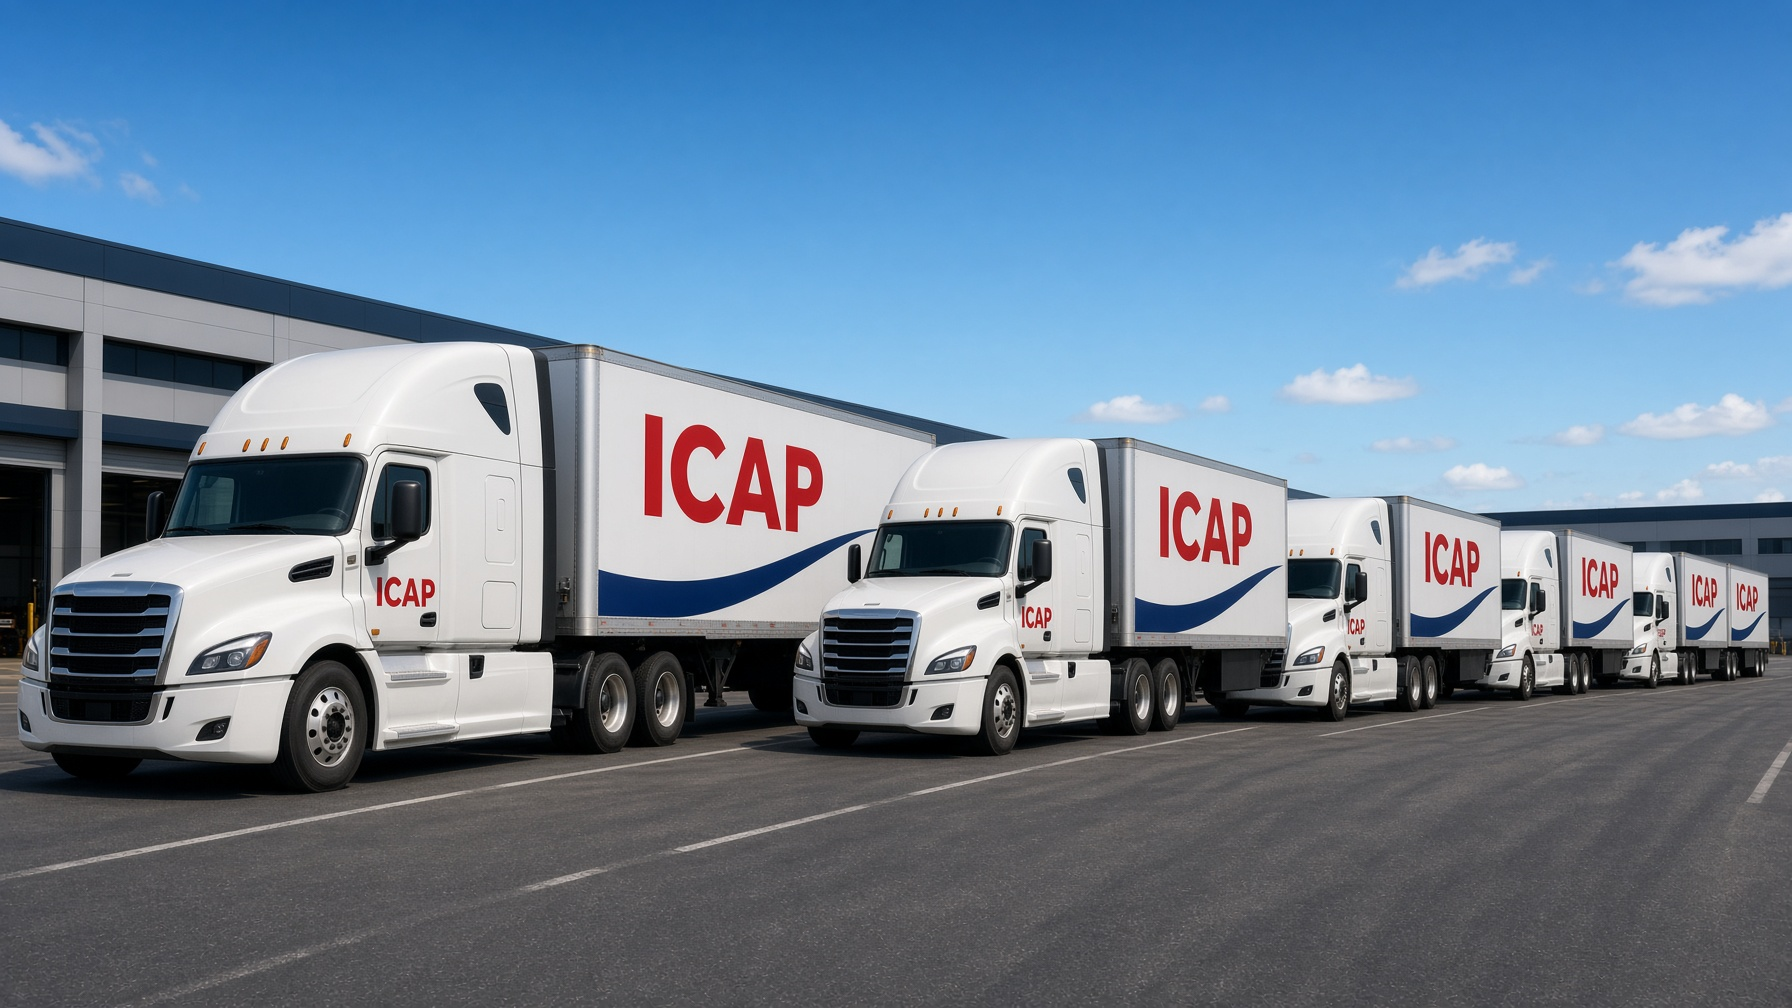
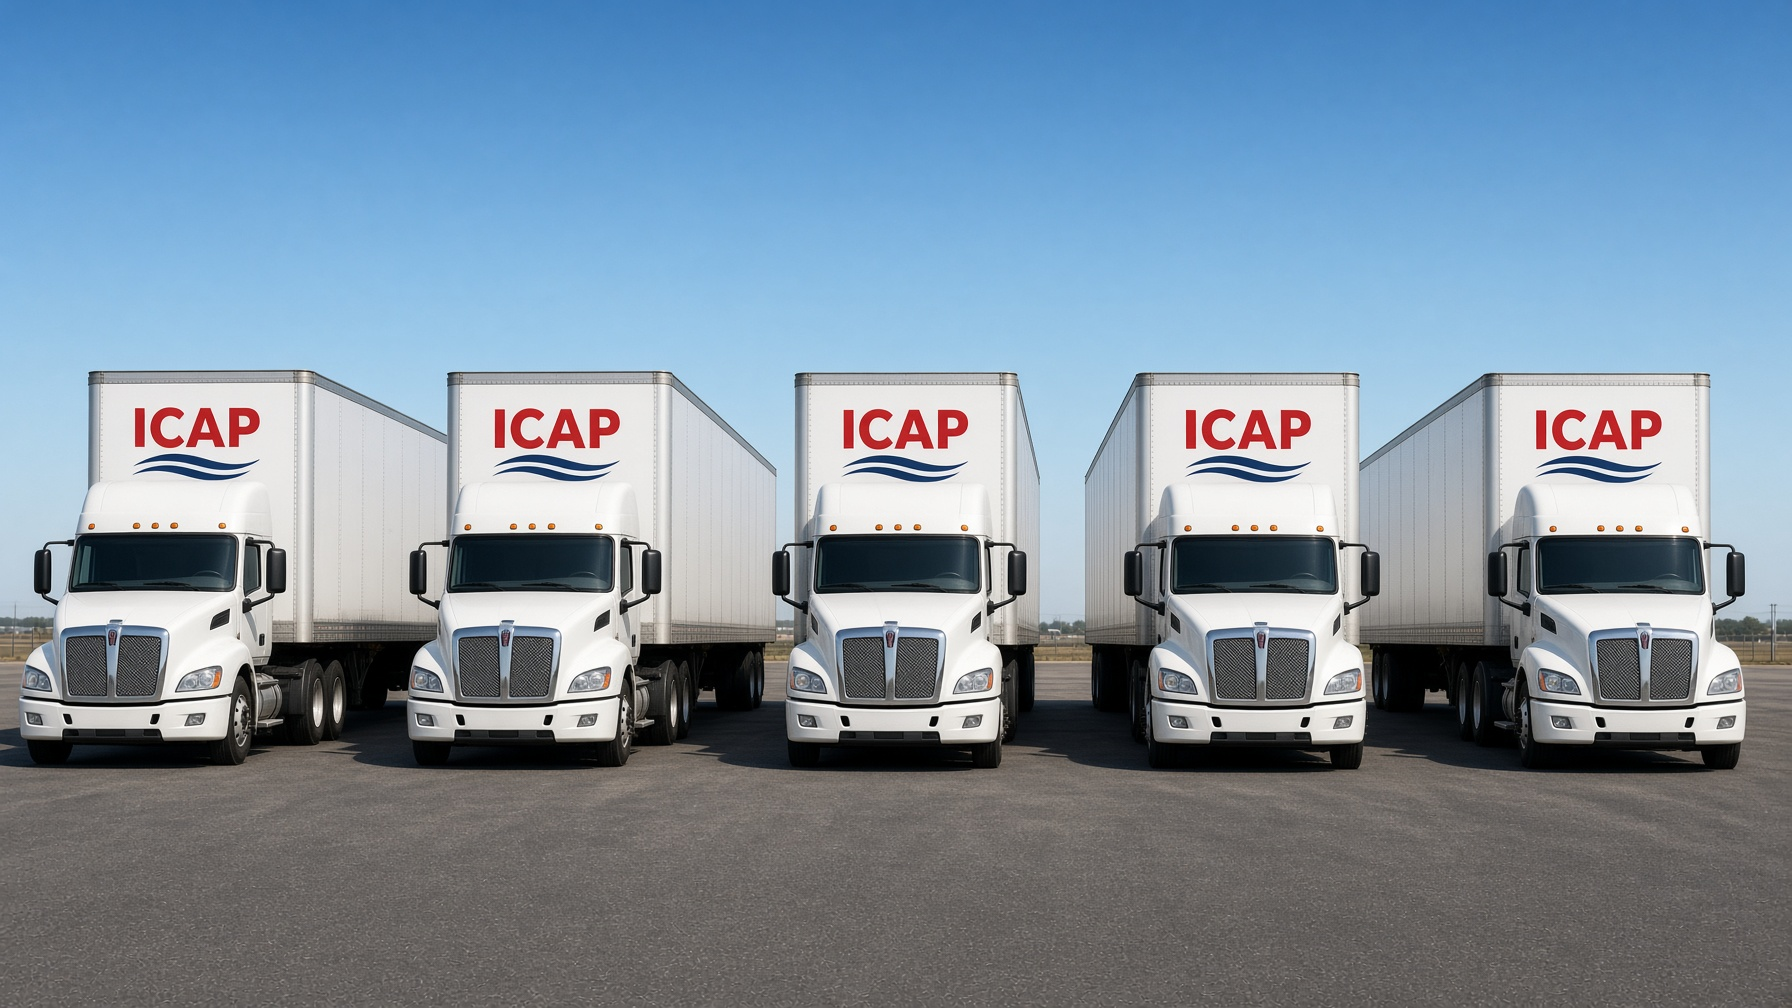
Replace homepage fleet photo with trucks standing in a file

diff --git a/src/components/sections/home-hero.tsx b/src/components/sections/home-hero.tsx
@@ -45,8 +45,8 @@ export function HomeHero() {
           <div className="relative">
             <div className="overflow-hidden rounded-[var(--radius-xl)] border border-border shadow-[var(--shadow-lg)]">
               <img
-                src="/fleet.jpg"
-                alt="ICAP Transport fleet — multiple trucks with ICAP on the trailers"
+                src="/fleet.jpg?v=4"
+                alt="ICAP Transport fleet standing in a file — trucks with ICAP on the trailers"
                 className="aspect-[16/10] w-full object-cover object-center"
               />
             </div>
